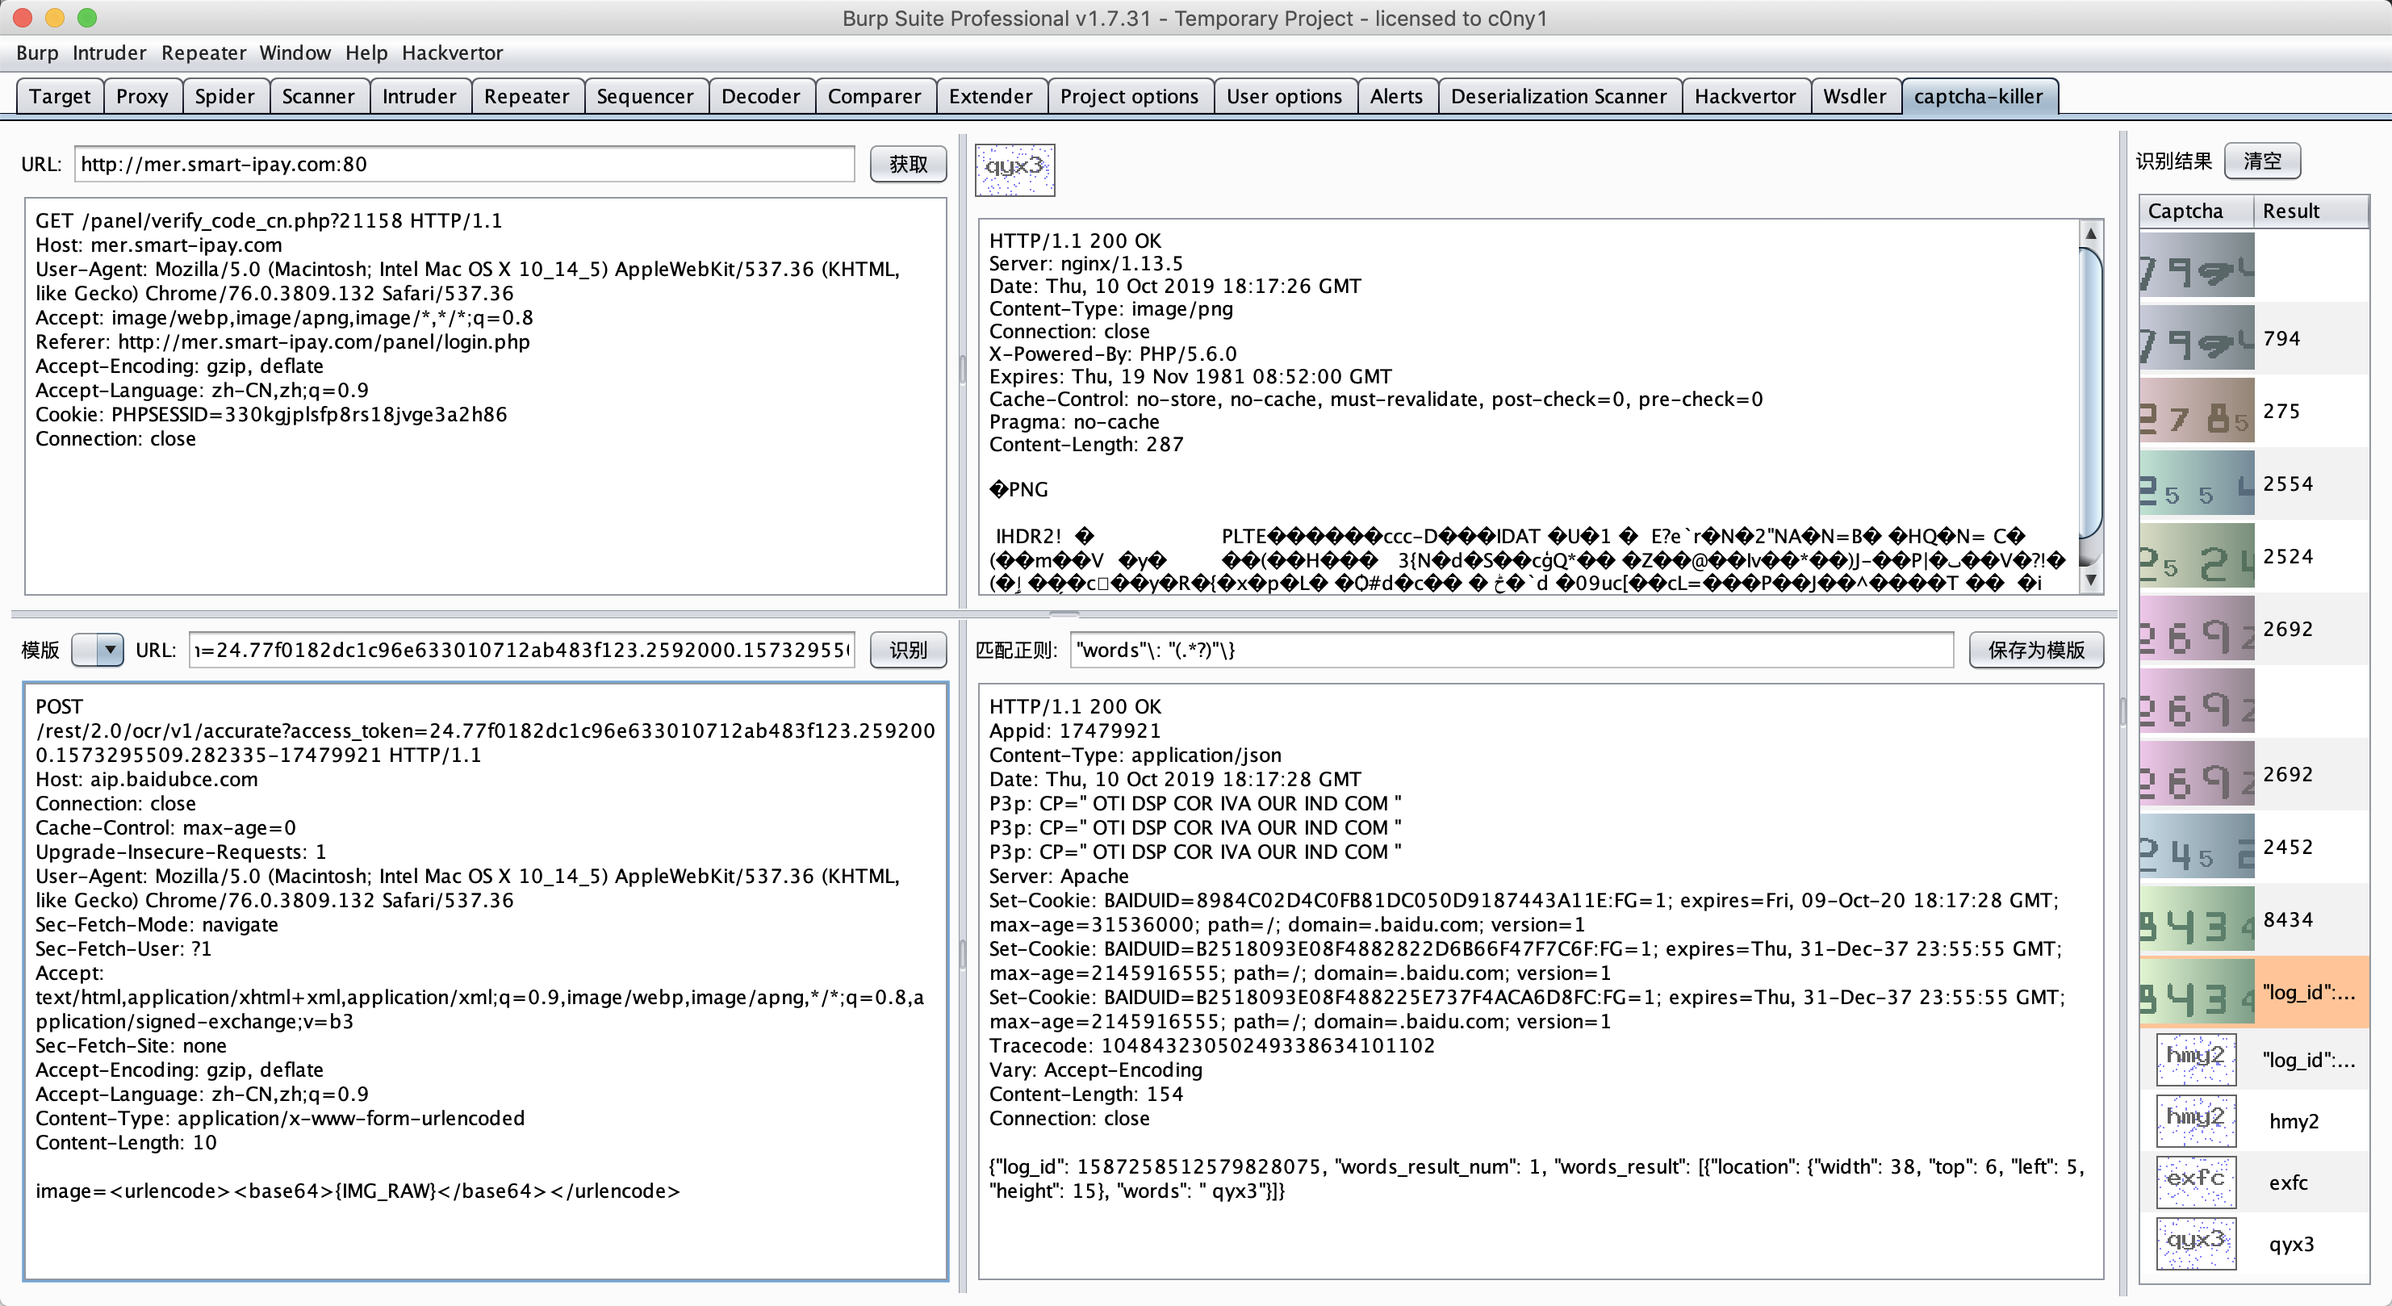
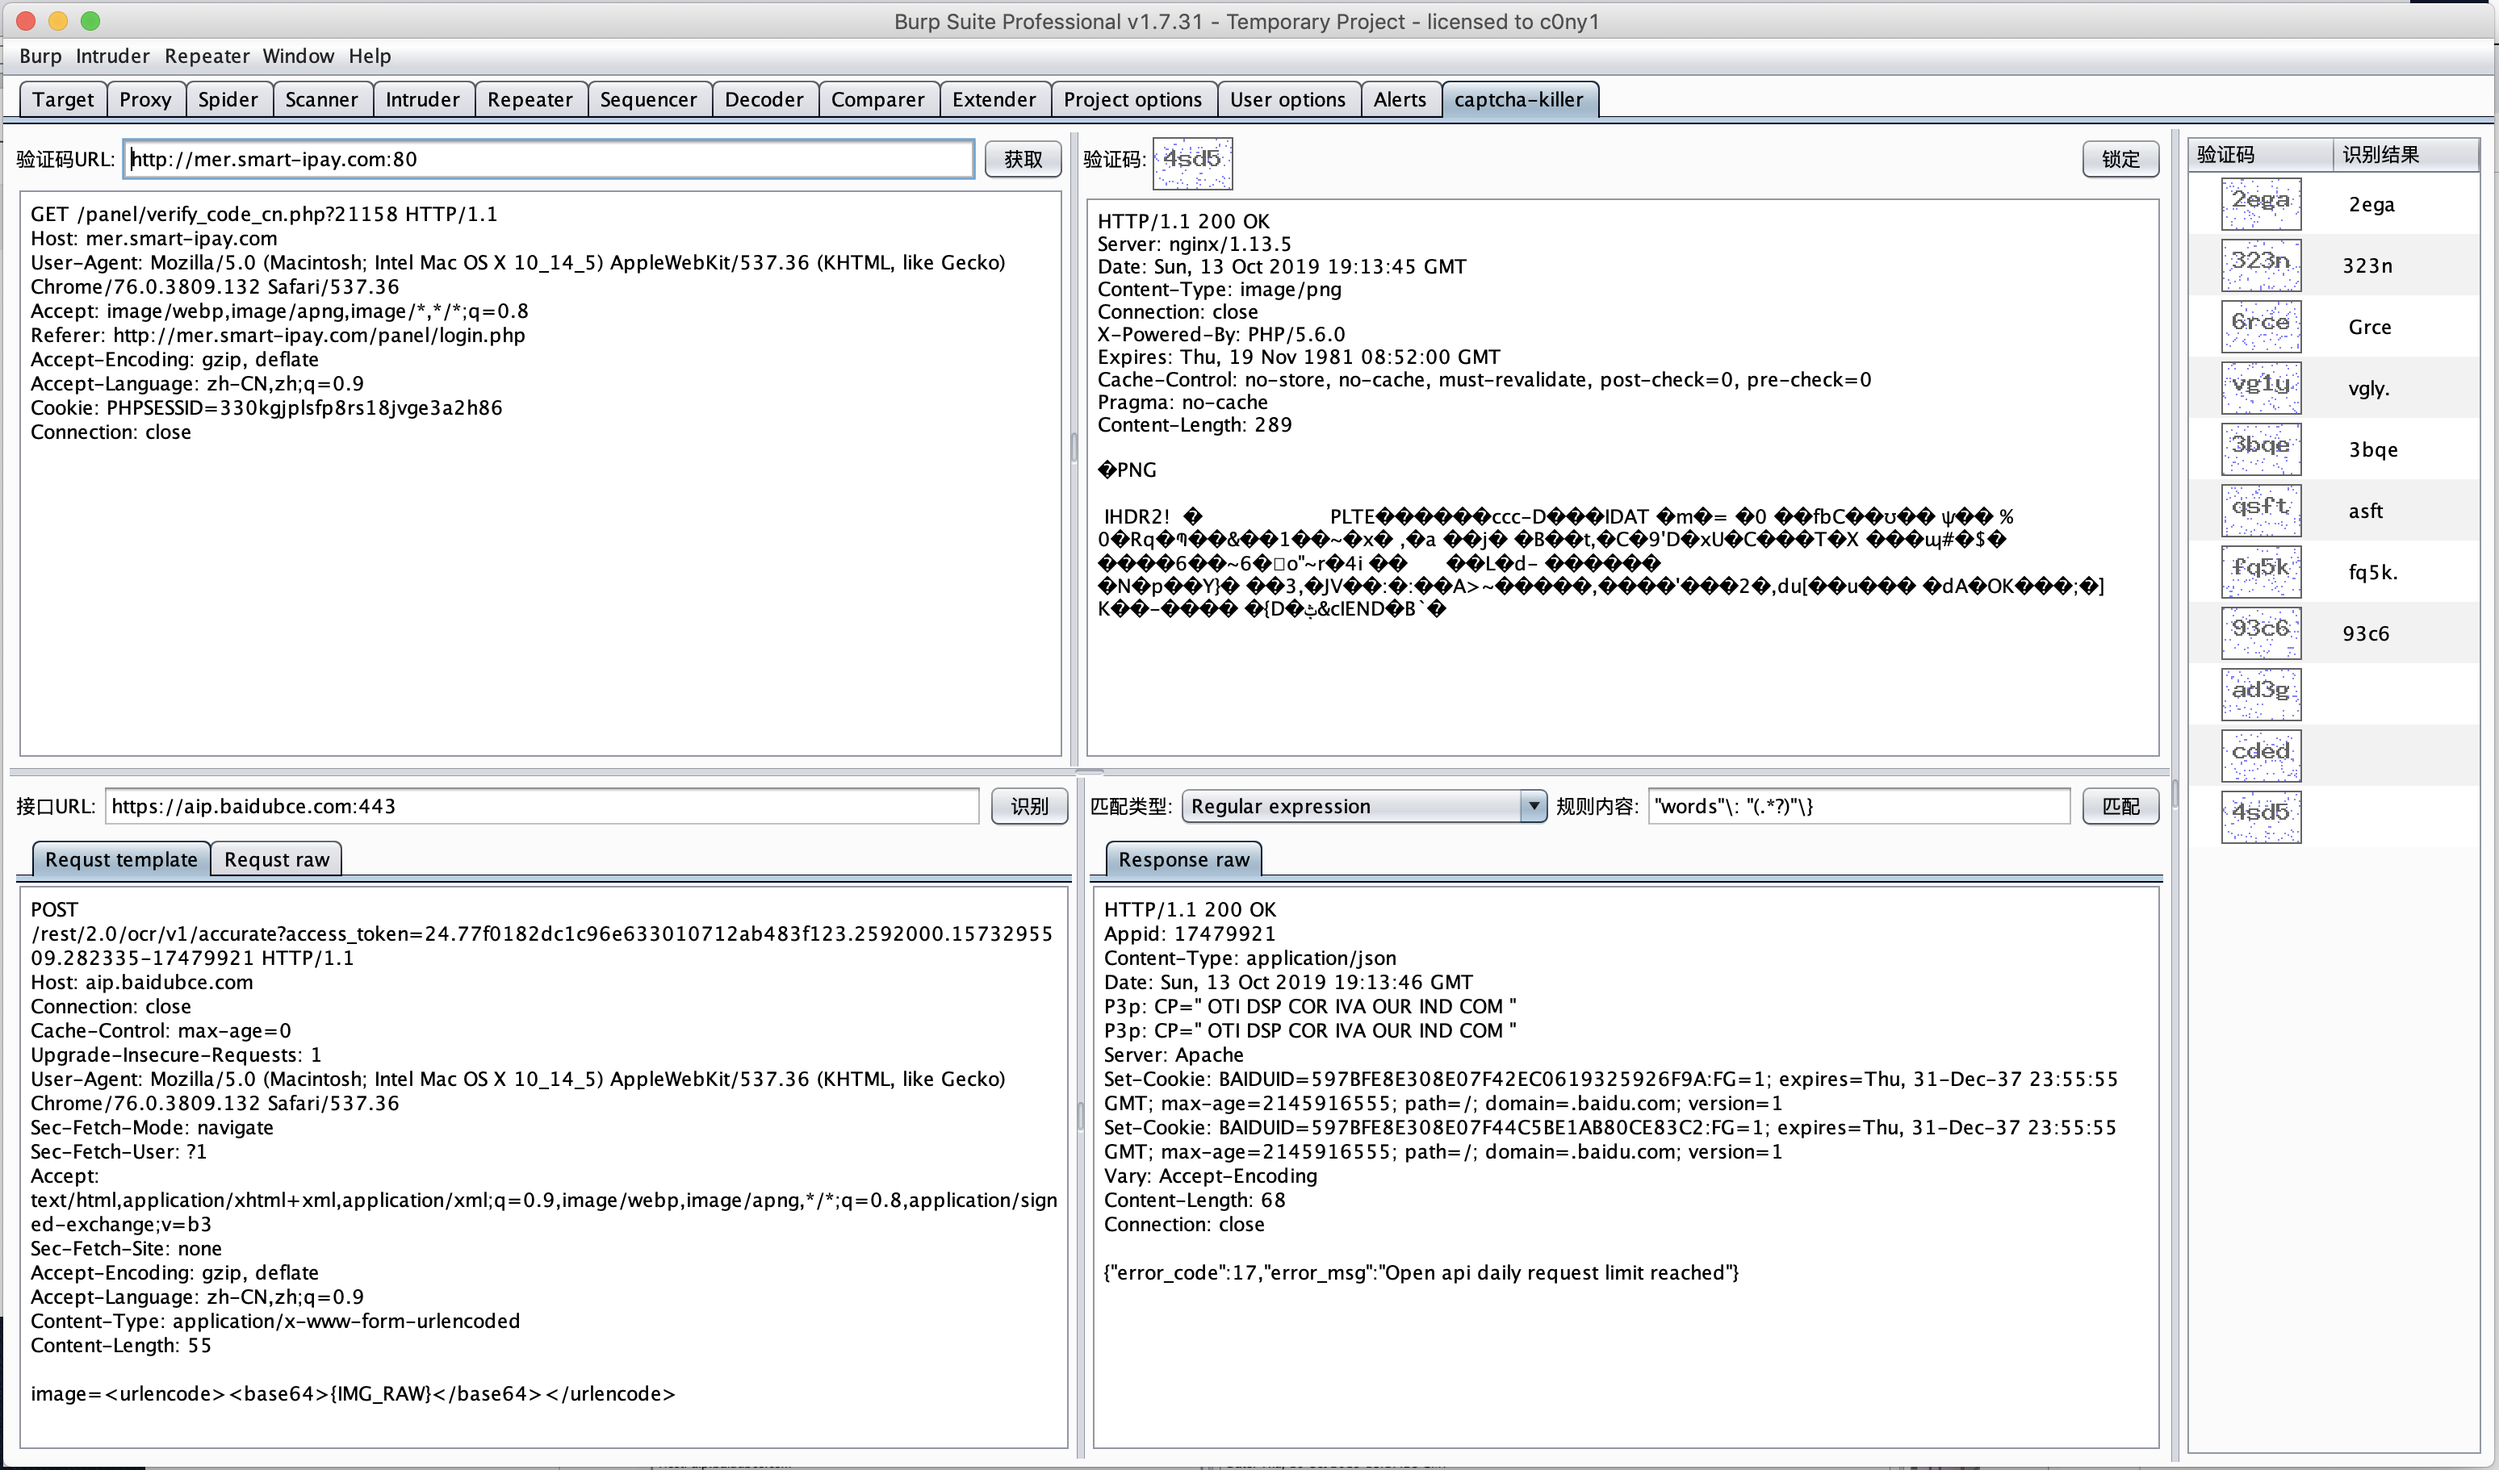
更新README和展示图

Changed region(s): [[0.0, 0.0, 1.0, 1.0]]

diff --git a/README.md b/README.md
@@ -1,4 +1,4 @@
-# captcha-killer | burp验证码识别接口调用插件
+# captcha-killer
 ## 0x01 插件简介
 `captcha-killer`要解决的问题是让burp能用上各种验证码识别技术！
 
